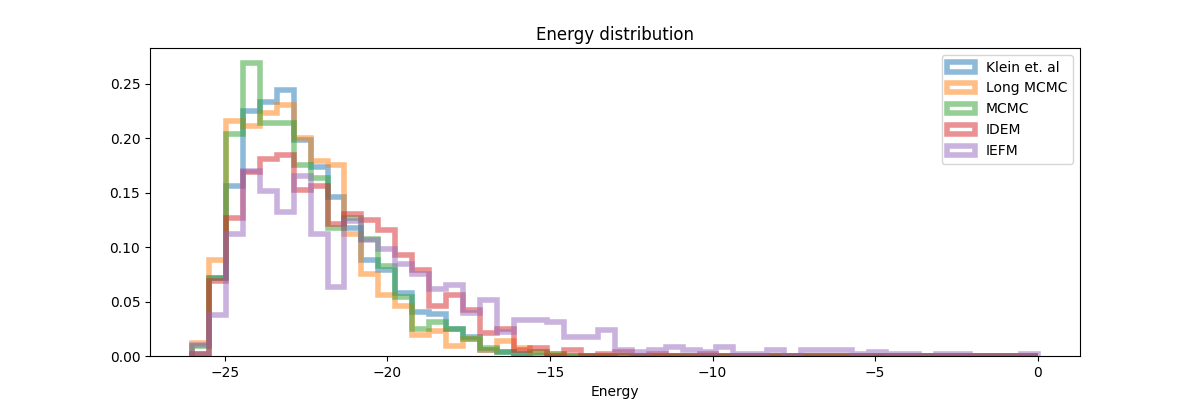
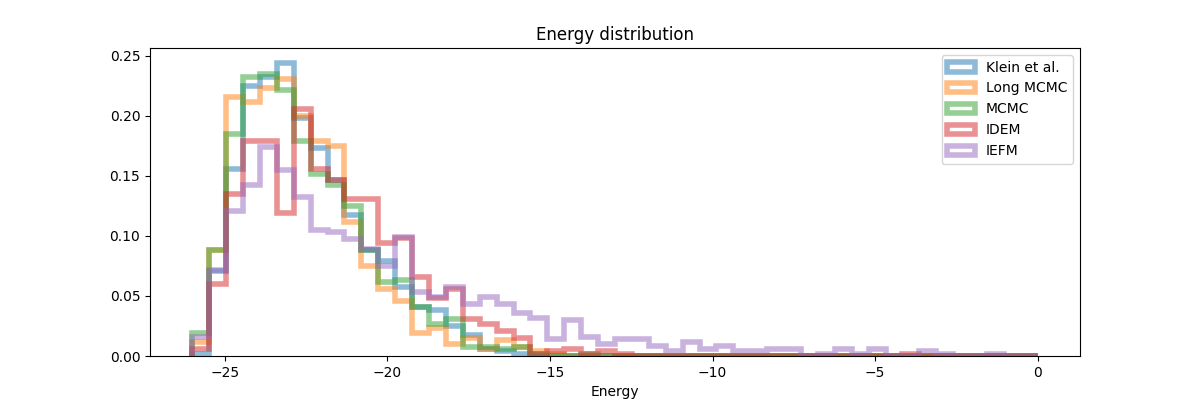
lj55 data and typos in images

diff --git a/_posts/2025-04-28-ebm-vs-mcmc.md b/_posts/2025-04-28-ebm-vs-mcmc.md
@@ -355,7 +355,7 @@ These findings suggest that while neural methods like iDEM and iEFM represent in
     Figure 12. Log of Energy W2 vs epoch and time in seconds for the methods on the LJ13 system.
 </div>
 
-On the LJ13 system we observe that the MCMC runs actually get a higher W2 score than the IDEM runs (Figure 11). However, we posit that for higher dimensional systems, W2 between positions of data samples is not a good measure for the distance between two distributions. This is because even the long MCMC chains, having run for a million steps, do not attain a better W2 score than IDEM. In fact, from Figure 6, we can see that the W2 score for the long MC chain stabilizes and converges at a value of 4.31. Furthermore, both the short and the long MCMC chains have a much lower energy W2 value when compared to the reference test (Klein et al.) than iDEM, which indicates that they are better predictors of ensemble properties despite having a higher W2 score.
+On the LJ13 system we observe that the MCMC runs actually get a higher W2 score than the IDEM runs (Figure 11). However, we posit that for higher dimensional systems, W2 between positions of data samples is not a good measure for the distance between two distributions. This is because even the long MCMC chains, having run for a million steps, do not attain a better W2 score than IDEM. In fact, from Figure 6, we can see that the W2 score for the long MC chain stabilizes and converges at a value of 4.31. Furthermore, the W2 score is only an upperbound on the best W2 score for a set of samples, as the current metric does not take rotations of the system and permutations of the particles into account. Moreover, both the short and the long MCMC chains have a much lower energy W2 value when compared to the reference test (Klein et al.) than iDEM, which indicates that they are better predictors of ensemble properties despite having a higher W2 score.
 
 <div class="caption">
     Table 3. Performance of all methods on the LJ13 system
@@ -416,6 +416,9 @@ Finally, in the histogram plots, it's clear that the IDEM energy plot is right s
     Figure 16. Log of Energy W2 vs epoch and time in seconds for the methods on the LJ55 system.
 </div>
 
+
+From the figures, we notice similar but exagerated trends that we observed in the LJ13 systems. The MCMC chains return a higher W2 score until but have a significantly lower energy W2 score. Therefore, we emphasize the importance of visualizing the distribution of observations (such as energy and interatomic distance) as the mismatch can get further inflated with increase in dimensions.
+
 <div class="caption">
     Table 4. Performance of all methods on the LJ55 system
 </div>
@@ -424,9 +427,28 @@ Finally, in the histogram plots, it's clear that the IDEM energy plot is right s
 | :---- | :---- | :---- | :---- | :---- | :---- | :---- |
 | Method | W2 | Energy W2 | Interatomic distance w2 | W2 | Energy W2 | Interatomic distance w2 |
 | Long MCMC | 15.923 ± 0.009 | 0.931 ± 0.243 | 0.001 ± 0.0006 | 15.779 ± 0.007 | 0.680 ± 0.211 | 0.001 ± 0.0005 |
+| iDEM | 16.143 ± 0.122 | 21.704 ± 15.174 | 0.085 ± 0.033 | 16.054 ± 0.125 | 21.531 ± 15.314 | 0.084 ± 0.034 |
 | MCMC | 16.48 ± 0.0497 | 0.872 ± 0.237 | 0.001 ± 0.0005 | 16.42 ± 0.026 | 0.907 ± 0.391 | 0.002 ± 0.0009 |
 
-At the time of submitting this blog for review, we have not yet completed iDEM training runs on the LJ55 system due to the unexpectedly long training time—approximately 2.5 days on an L40 GPU for a single model. However, we provide interim results, including W2 and Energy W2 metric values plotted over 1000 epochs and wall-clock time, as shown in the figures above. These figures reveal trends consistent with previous systems, with MCMC outperforming iDEM across relevant metrics and exhibiting closer alignment with the ground truth distribution. Once the training runs are complete, we will update this blog with the final values and histogram plots to provide a comprehensive comparison.
+From the table above and figures below, it is clearly visible that iDEM does not converge to generating the equilibrium distribution, we see huge deviations from what could be considered the ideal energy W2 and interatomic W2. The energy distribution particularly has much lower overlap to the references as compared to all the other methods. Furthermore, iDEM is not even able to obtain the overall correct shape of the interatomic distances despite having the same number of energy evaluations as MCMC.
+
+<div class="row mt-3">
+    <div class="col-sm mt-3 mt-md-0">
+        {% include figure.html path="assets/img/2025-04-28-ebm-vs-mcmc/lj55_interatomic_distance_distribution.png" class="img-fluid" %}
+    </div>
+</div>
+<div class="caption">
+    Figure 17. Distribution of interatomic distance obtained from all the methods on the LJ55 system.
+</div>
+
+<div class="row mt-3">
+    <div class="col-sm mt-3 mt-md-0">
+        {% include figure.html path="assets/img/2025-04-28-ebm-vs-mcmc/lj55_energy_distribution.png" class="img-fluid" %}
+    </div>
+</div>
+<div class="caption">
+    Figure 18. Distribution of energies obtained from all the methods on the LJ55 system. 
+</div>
 
 ## Closing thoughts \- the role that these models have to play
 
